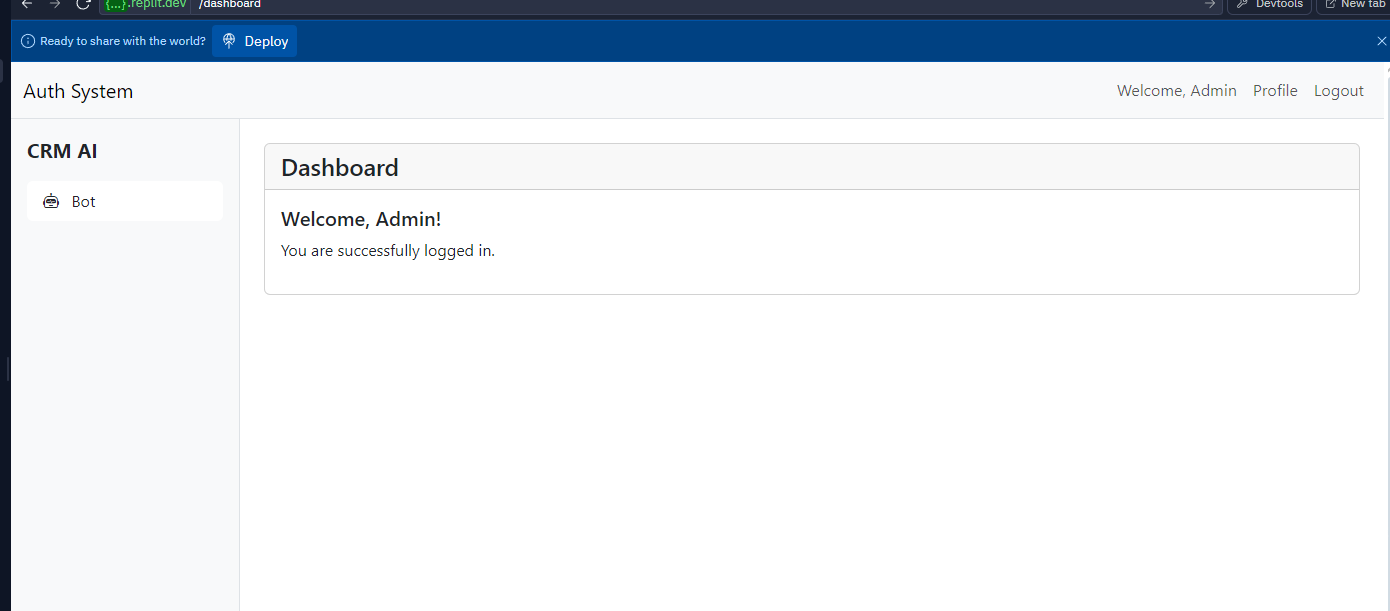
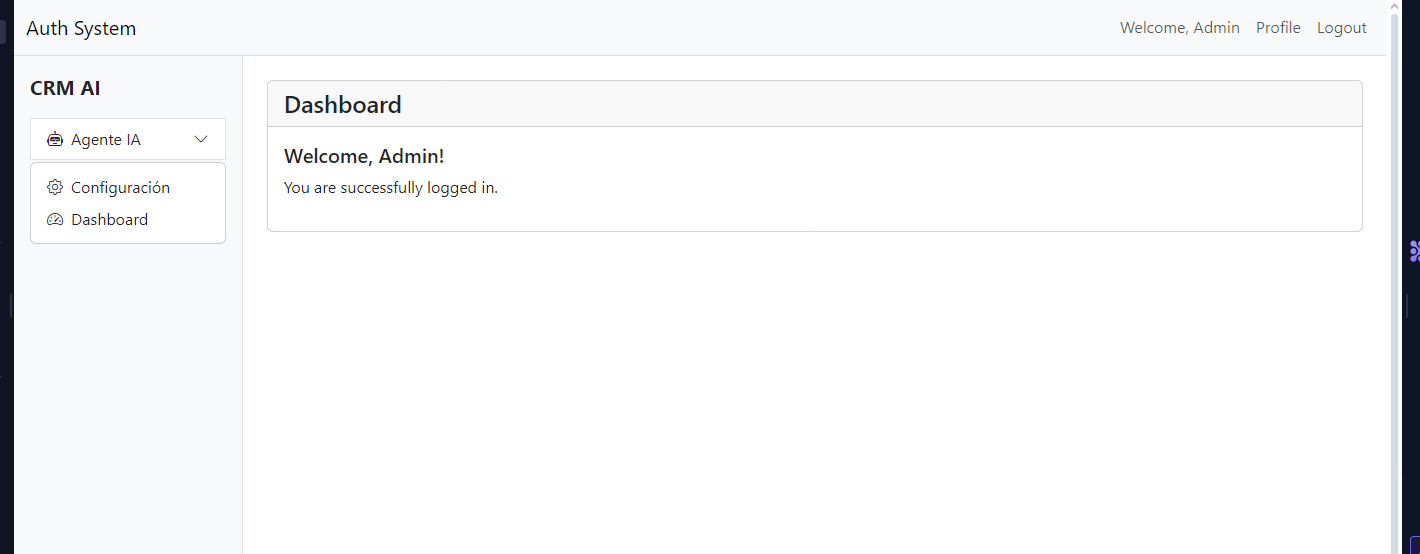
Agent step completed: Update sidebar menu to replace 'Bot' with 'Agente IA' and add dropdown submenu

diff --git a/templates/base.html b/templates/base.html
@@ -28,19 +28,16 @@
             <div class="col-md-2 px-0 border-end bg-body-tertiary sidebar">
                 <div class="p-3 fw-bold fs-5">CRM AI</div>
                 <div class="list-group list-group-flush px-3">
-                    <div class="dropdown">
-                        <a class="list-group-item list-group-item-action dropdown-toggle d-flex align-items-center justify-content-between" 
-                           href="#" 
-                           role="button" 
-                           data-bs-toggle="dropdown" 
-                           aria-expanded="false">
+                    <div class="d-flex flex-column">
+                        <a class="list-group-item list-group-item-action mb-2" href="#">
                             <span><i class="bi bi-robot me-2"></i>Agente IA</span>
-                            <i class="bi bi-chevron-down"></i>
                         </a>
-                        <ul class="dropdown-menu w-100">
-                            <li><a class="dropdown-item" href="#"><i class="bi bi-gear me-2"></i>Configuración</a></li>
-                            <li><a class="dropdown-item" href="#"><i class="bi bi-speedometer2 me-2"></i>Dashboard</a></li>
-                        </ul>
+                        <a class="list-group-item list-group-item-action ms-3 mb-1" href="{{ url_for('agente_configuracion') }}">
+                            <i class="bi bi-gear me-2"></i>Configuración
+                        </a>
+                        <a class="list-group-item list-group-item-action ms-3" href="{{ url_for('agente_dashboard') }}">
+                            <i class="bi bi-speedometer2 me-2"></i>Dashboard
+                        </a>
                     </div>
                 </div>
             </div>

diff --git a/templates/agente_configuracion.html b/templates/agente_configuracion.html
@@ -1,0 +1,12 @@
+{% extends "base.html" %}
+
+{% block content %}
+<div class="card">
+    <div class="card-header">
+        <h4 class="mb-0">Configuración</h4>
+    </div>
+    <div class="card-body">
+        <p>Página de configuración del Agente IA.</p>
+    </div>
+</div>
+{% endblock %}

diff --git a/templates/agente_dashboard.html b/templates/agente_dashboard.html
@@ -1,0 +1,12 @@
+{% extends "base.html" %}
+
+{% block content %}
+<div class="card">
+    <div class="card-header">
+        <h4 class="mb-0">Dashboard del Agente</h4>
+    </div>
+    <div class="card-body">
+        <p>Dashboard del Agente IA.</p>
+    </div>
+</div>
+{% endblock %}

diff --git a/static/style.css b/static/style.css
@@ -12,14 +12,3 @@
     color: var(--bs-light);
     border-color: var(--bs-primary);
 }
-
-.dropdown-menu {
-    position: relative;
-    width: 100%;
-    margin-top: 0;
-    border-radius: 0.375rem;
-}
-
-.dropdown-toggle::after {
-    display: none;
-}

diff --git a/routes.py b/routes.py
@@ -85,3 +85,15 @@ def profile():
 def logout():
     session.pop('username', None)
     return redirect(url_for('login'))
+
+@app.route('/agente/configuracion')
+def agente_configuracion():
+    if 'username' not in session:
+        return redirect(url_for('login'))
+    return render_template('agente_configuracion.html')
+
+@app.route('/agente/dashboard')
+def agente_dashboard():
+    if 'username' not in session:
+        return redirect(url_for('login'))
+    return render_template('agente_dashboard.html')
